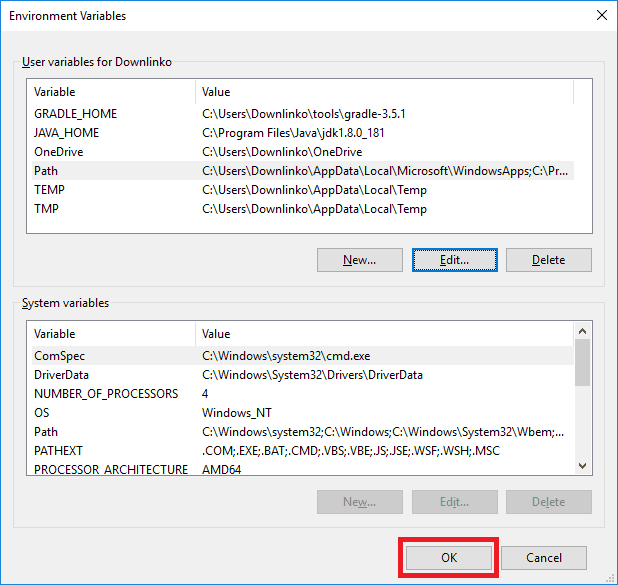
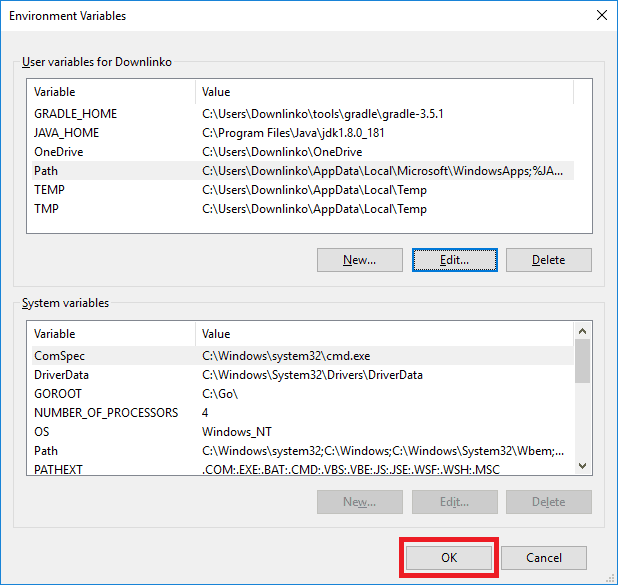
update post

diff --git a/_posts/development/gradle/2018-06-17-download-install-gradle-3-5-windows.md b/_posts/development/gradle/2018-06-17-download-install-gradle-3-5-windows.md
@@ -78,11 +78,11 @@ Right-click the ZIP archive file. Select `Extract All…`.
 
 Select an extract destination for the Gradle files.
 
-In this example, we extract in `C:\Users\Downlinko\tools`.
+In this example, we extract in `C:\Users\Downlinko\tools\gradle`.
 
-<img src="{{ site.url }}/assets/images/posts/development/tools-extract-destination.png" alt="tools-extract-destination">
+<img src="{{ site.url }}/assets/images/posts/development/gradle/gradle-extract-destination.png" alt="gradle tools extract destination">
 
-Click on `Extract`. This extracts all Gradle files under `C:\Users\Downlinko\tools\gradle-3.5.1`.
+Click on `Extract`. This extracts all Gradle files under `C:\Users\Downlinko\tools\gradle\gradle-3.5.1`.
 
 > From now on we refer to this location as `[GRADLE_INSTALL_DIR]`.
 
@@ -108,7 +108,7 @@ Click on `New…`.
 
 Enter "<kbd>GRADLE_HOME</kbd>" as variable name. Enter the `[GRADLE_INSTALL_DIR]` as variable value.
 
-In this tutorial the installation directory is: `C:\Users\Downlinko\tools\gradle-3.5.1`.
+In this tutorial the installation directory is: `C:\Users\Downlinko\tools\gradle\gradle-3.5.1`.
 
 Click `OK`.
 
